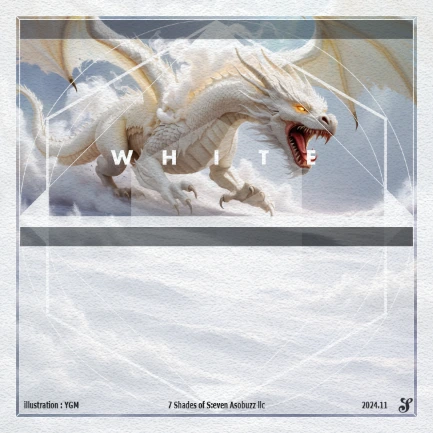
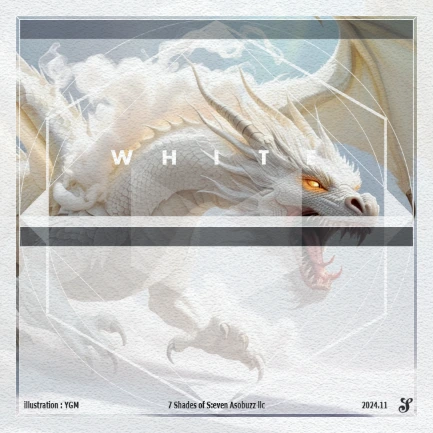
ノクスアエルを本物に寄せた4件（続き773）
- 円盤を切り抜きの png から SVG へ戻した（ご判断「以前のSVGの八角形をとりあえず
  採用しよう!」）。続き767 で消していたものを git から戻した。切り抜きの png は
  道具の吐き先として残してある。
- 円盤をカードの絵の上に重ねるようにした（ご判断「2で」＝焼き込みではない）。
  src/shikija-dial.js を足して円盤の持ち主を1か所にまとめ、card-renderer.js と
  hand-effect-ui.js の両方がそこから引く。置き場所は絵に焼かれた色名（素材の
  5層目で測った y 34.54%〜38.00%）とぶつからない 10.5%〜33.5%。
- 我忘れの白き龍の基本効果に【色者】の2行が抜けていたのを足した（ご指摘
  「効果がアプリ版だと違うね！HPに効果が載ってるから揃えよう！」）。公式サイトの
  カードの絵と突き合わせた。元データの「行」には在ったが「文」へ移し忘れていた。
  ⚠ 最初「・捨色が白なら、〜」と書いたら3行目が折り返してクレジットに被ったので
  「白：」「黒：」に詰めた。これ以上長くしないこと。
- イラストを本物と同じ寄りに差し替えた。元絵は同じ1枚で、squarify が横長のまま
  上半分に置いていたため引きの絵だった。818x818 を左端 x=440 で切った正方形版を
  素材の _正方形版/ へ置いた（make-ex0-art が自動でそちらを使う）。

ⓘ 色者の動きの表（SHIKIJA_DIRS）は続き765・766 で既に新版の並び。今回は絵だけ。
検査 20本とも合格。SQL・Edge Function の変更は無い。

diff --git a/src/changelog.js b/src/changelog.js
@@ -128,6 +128,12 @@ export const CHANGELOG = [
       "⚠ 出すのは **ONLY の行だけ**（色名は絵に焼かれているので重ねると二重になる）。**色名は読み上げには残した**（`aria-label=\"WHITE ONLY\"`）——絵の中の字は読み上げに乗らないため。⚠ カードは 20.5rem 角で固定なので、印も rem で書けば付いてくる＝**機種ごとの上書きは置かない**（置くと絵だけそのままで字が大きくなる）。実測でも「印とカードの大きさの比」が機種で変わらないことを見ている。",
       "⚠ 直した所が1つ: ONLY の行が**1行目になる時**（色名を出さない時）に、2段のための `margin-top` が残って**印が 1.70 字高ぶん下へ落ちていた**。`:first-child` で打ち消した。",
       "実測 `scratchpad/_p772.mjs`（**24項目・NG 0・例外0・404 0**）。🔴 **置き場所は「印のある絵」と「印の無い絵」を引き算して測る**——合成後の絵から直に測ると枠の飾りやイラストを拾うため。⚠ 引き算の前に**動きを止める**（出現の動きと光の走りが残っていると絵じゅうが差になる＝最初これで段が10個出た）。⚠ しきい値は低く（白い龍の上では**白い字が白地に乗る**ので差が小さく、30 では2字落ちた）。結果: 行の間 0.85（印刷 1.00）／大きさ 0.512（印刷 0.476）／中心ずれ 0.00。",
+      "🔴 **色者の円盤を、切り抜きの png から SVG へ戻した**（ユーザー判断「以前のSVGの八角形をとりあえず採用しよう!」）。続き766 で本物の画素を測って起こした `assets/icons/shikija-dial.svg` を **git から戻した**（続き767 で「切り抜きの方が近い」と判断して消していたもの）。⚠ 判断の前に、切り抜き・以前のSVG・新しく描いた4案を**実寸（66px・33px）まで含めて並べて見てもらった**。⚠ 切り抜きの png は**消さずに置いてある**（道具 `tools/make-shikija-dial.mjs` の吐き先。本物と見比べたい時に使う）。",
+      "🔴 **色者の円盤を、カードの絵の上に重ねるようにした**（ユーザー判断「2で」＝焼き込みではなく重ねる）。焼くと ①並びを直すたびに焼き直し ②絵が別物なのに円盤だけ本物にするとちぐはぐ、になる。⇒ `src/shikija-dial.js` を足して**円盤の持ち主を1か所に**し（絵の道・円盤を持つカードの名簿・並びの覚え書き）、`card-renderer.js` が `.card-face-dial` を重ねる。置き場所は**絵に焼かれている色名の上**（素材の5層目で測った y 34.54%〜38.00% とぶつからない 10.5%〜33.5%）。⚠ % なのでカードが大きくても小さくても付いてくる。⚠ 読めなければ自分を外す（進行を止めない）。",
+      "🔴 **我忘れの白き龍（ノクスアエル）の基本効果に【色者】の2行が抜けていた**（ユーザー指摘「効果がアプリ版だと違うね！HPに効果が載ってるから揃えよう！」）。公式サイトのカードの絵（`site/assets/cards-0thbp-lg/c32.webp`）と突き合わせたところ、印字には「【色者】／□ ３マス以内のプレイヤーは２枚ドロー。／■ ３マス以内のプレイヤーは手札をすべて捨てる。」が在るのに、アプリは1行目しか持っていなかった（元データの「行」には在るのに「文」へ移し忘れ）。⇒ 足した。□＝白／■＝黒 の印は文では出せないので「白：」「黒：」と書いた（□■ は手札効果の印と紛れるため使わない）。",
+      "⚠ 🔴 **足したら効果文がクレジットに被った。** 最初「・捨色が白なら、〜」と書いたら3行目が折り返し、**文の下端が 93.8%** まで伸びて下のクレジットに重なった（カードの自動縮小は効いているが、限度いっぱいだった）。⇒ 「白：」「黒：」に詰めて1行ずつに収めた。**これ以上長くしないこと**（データの注にも書いた）。",
+      "🔴 **ノクスアエルのイラストを、かくざとうさんの新しいカードと同じ寄りに差し替えた**（ユーザー指示）。元絵は同じ1枚（横長 1472x832）で、アプリは `squarify-illust.mjs` が**横長のまま上半分に置いていた**ので引きの絵になっていた。⇒ 本物のカードで龍の目が横 74% に在るのに合わせて **818x818 を左端 x=440 で切った正方形版**を作り、素材の `_正方形版/` へ置いた。⚠ そこへ置くと `make-ex0-art.mjs` が**自動でそちらを使う**ので、次に道具を回しても寄りが戻らない（横長へ巻き戻らない）。小さい版（192px）も焼き直した。",
+      "ⓘ **色者の動きの表（`SHIKIJA_DIRS`）は既に新版の並び**（続き765・766 で直してある）。今回は絵の側をそろえただけで、動きは変わっていない。⚠ **絵と表は別物なので、どちらかを直したらもう一方も見ること**（`src/shikija-dial.js` の冒頭に書いた）。",
     ],
   },
   {

diff --git a/src/card-text-ex0.ja.js b/src/card-text-ex0.ja.js
@@ -37,7 +37,7 @@ export const CARD_TEXT_EX0_JA = {
   "ex0-purple-vivian": { flavor: "「優しさで満ち溢れた世界、私はそれを強く望むわ。」── 後援するヴィヴィアン", titleRuby: "こうえん", basic: "", subtitle: "", arrival: "相手を１人選ぶ。その相手はムーブフェイズを行う。その相手が到達したカードを自分の手札に加えるなら、代わりにそのカードをあなたの手札に加える。", hand: "上記の到達効果を得る。" },
   "ex0-white-pure-burger": { flavor: "分け合った食卓では、誰も損をしていない。", titleRuby: "", basic: "", subtitle: "", arrival: "プレイヤーのいないマスを１マス選ぶ。全員は１枚ドローし、自分の手札から１枚をそのマスの１番上に置く。", hand: "任意の１マスを選ぶ。そのマスの裏向きのカードの枚数分ドロー。" },
   "ex0-white-someones-shadow": { flavor: "「なぜこのようなことになってしまっているのだ。」── 無色の者／何か知っているような口ぶりでそっと力を貸した", titleRuby: "だれ　しろ", basic: "", subtitle: "", arrival: "これを捨てる。このマスから十字方向の計１２マスに山札から１枚ずつ裏向きで置く。それらをすべてオープンする。", hand: "これをあなたの周囲以外のマスに裏向きで置く。" },
-  "ex0-white-dragon": { flavor: "暴れている…冷静になれぬ理由ももはや覚えていないのであろう", titleRuby: "*ノクスアエル", basic: "これは他のカードの効果の対象にならない。", subtitle: "", arrival: "１枚ドロー。１マス強制移動する。", hand: "これを任意のマスに表向きで置く。" },
+  "ex0-white-dragon": { flavor: "暴れている…冷静になれぬ理由ももはや覚えていないのであろう", titleRuby: "*ノクスアエル", basic: "これは他のカードの効果の対象にならない。\n【色者】\n白：３マス以内のプレイヤーは２枚ドロー。\n黒：３マス以内のプレイヤーは手札をすべて捨てる。", subtitle: "", arrival: "１枚ドロー。１マス強制移動する。", hand: "これを任意のマスに表向きで置く。" },
   "ex0-black-bad-burger": { flavor: "美味いものには、必ず代金がある。", titleRuby: "", basic: "", subtitle: "", arrival: "１枚ドロー。場の中央と四隅のマスのうち、プレイヤーのいないマスを１マス選ぶ。あなたの手札をすべて、そのマスの１番上に置く。", hand: "任意の１マスのカードをすべて捨てる。１枚ドロー。" },
   "ex0-black-vood-contract": { flavor: "契約とは時に一方的なものだ", titleRuby: "ぞく　けいやく", basic: "", subtitle: "", arrival: "全員は手札が２枚以下になるように捨てる。そうしたなら、自分の手札を１枚ロックしてもよい、ただし最後のロックはできない。", hand: "上記の到達効果を得る。" },
   "ex0-red-crimson-fist": { flavor: "赤は語らない。ただ、届く。", titleRuby: "くれない　てっけん", basic: "", subtitle: "", arrival: "以下の効果のうち１つ得る。\n・【追色１】２枚ドロー。\n・あなたの周囲の相手を１人選ぶ。その相手に接触する。", hand: "【追色S】あなたの周囲の相手を１人選ぶ。その相手に接触する。\n（接触で奪えるカードはＳの２倍の枚数である）" },

diff --git a/src/shikija-dial.js b/src/shikija-dial.js
@@ -1,0 +1,28 @@
+// 色者の円盤（移動先表示）の**唯一の持ち主**。
+//
+// ■ これは何か
+//   【色者】のカードは、各プレイヤーのターン終了時に山札から1枚捨て、その色（捨色）の
+//   向きへ1マス動く。その「どの色がどの向きか」を示すのが、カードの絵に描かれた円盤。
+//
+// ■ 🔴 絵は SVG（2026-11-20・ユーザー判断「以前のSVGの八角形をとりあえず採用しよう!」）
+//   続き766 で本物のカードの画素を測って起こしたもの。続き767 で「切り抜きの方が近い」と
+//   判断して一度消したが、並べて見てもらって**こちらを採る**ことになった（git から戻した）。
+//   ⚠ SVG なのでどの大きさでもにじまず、画像のように「幅×高さ×4バイト」のメモリを食わない（#223）。
+//   ⚠ 線が**白**なので、**置く側で暗い地を敷くこと**（明るい地に素で置くと線が消える）。
+//     カードの絵の上に置く時は、絵そのものが地になる。
+//
+// ■ 並びは**リメイク版（新版）**（続き765・766 のユーザー裁定と実測）
+//   上=緑 ／ 右上=青 ／ 右=桃 ／ 右下=紫 ／ 左下=赤 ／ 左=橙 ／ 左上=黄。
+//   真下は切り欠き（無色は動かない）。虹はそのターンのプレイヤーが周囲8マスから選ぶ。
+//   ⚠ 動きの表そのものは `src/main.js` の `SHIKIJA_DIRS`。**絵と表は別物なので、
+//     どちらかを直したらもう一方も見ること**（続き765 で表だけ直して絵が残った）。
+//   ⚠ 旧0th拡張の印刷カードの円盤は**左右が逆**。アプリは新版に合わせてある。
+
+export const SHIKIJA_DIAL_SRC = "assets/icons/shikija-dial.svg";
+
+// 円盤が描かれているカード（＝【色者】を持つカード）。増えたらここに足す。
+export const CARDS_WITH_SHIKIJA_DIAL = new Set(["ex0-white-dragon"]);
+
+export function hasShikijaDial(cardId) {
+  return CARDS_WITH_SHIKIJA_DIAL.has(cardId);
+}

diff --git a/src/card-renderer.js b/src/card-renderer.js
@@ -17,6 +17,8 @@ import { getCardText, getCardName } from "./card-text.js";
 import { getLang } from "./i18n.js";
 import { LAYOUT, cardTypeOf, groupOf, shapeHalfWidthAt } from "./card-layout-config.js";
 import { splitUnderlineRuns } from "./card-text-markup.js";
+// 【続き773】色者の円盤を絵の上に重ねる（絵に焼かずに重ねる＝ユーザー判断）。
+import { SHIKIJA_DIAL_SRC, hasShikijaDial } from "./shikija-dial.js";
 
 // 能力名《》・マーカー等の色味には単色を使う（color-mix/border-color はグラデーション不可）。
 const SOLID_ACCENT = {
@@ -318,6 +320,22 @@ export function buildCardFace(cardId, { showFlavor = true } = {}) {
 
   face.style.setProperty("--card-accent", accentFor(color));
   face.style.backgroundImage = `url("${getCardBlankPath(cardId)}")`;
+
+  // 🔴【続き773】色者の円盤。**絵に焼かずに重ねる**（ユーザー判断「2で」）。
+  //   焼くと ①10色ぶん焼き直しが要る ②並びを直すたびに焼き直し ③絵が別物なのに
+  //   円盤だけ本物にするとちぐはぐ、になる。重ねれば並びを直しても絵は触らなくてよい。
+  // ⚠ 置き場所は、絵に焼かれている色名（実測 y 34.54%〜）の**上**。ぶつからない所に置く。
+  // ⚠ 読み上げには出さない（意味は効果文と補足の方に書いてある）。
+  // ⚠ 読めなければ自分を外す（進行を止めない＝続き767 と同じ作法）。
+  if (hasShikijaDial(cardId)) {
+    const dial = document.createElement("img");
+    dial.className = "card-face-dial";
+    dial.src = SHIKIJA_DIAL_SRC;
+    dial.alt = "";
+    dial.setAttribute("aria-hidden", "true");
+    dial.addEventListener("error", () => dial.remove());
+    face.appendChild(dial);
+  }
 
   // 個別に絶対配置する要素（config にスロットがある時だけ描画）。
   if ("flavor" in slots && showFlavor && text.flavor) {

diff --git a/src/style.css b/src/style.css
@@ -21265,6 +21265,19 @@ body.reduce-glow .rank-showcase-gem.is-dimming {
 /* 能力名《》はタイトルと同じフォント。 */
 .card-face-subtitle { font-family: "Shippori Mincho B1", "FOT-マティス ProN M", "FOT-Matisse ProN M", "Yu Mincho", serif; font-weight: 800; text-align: center; color: color-mix(in srgb, var(--card-accent, #555) 55%, #201a16); }
 /* フレーバーは斜体にしない（ユーザー指摘）。フォント＝FOT-マティス。 */
+/* 🔴【2026-11-20・続き773】色者の円盤（移動先表示）。**絵に焼かずに重ねる**。
+   位置は絵に焼かれている色名（実測 y 34.54%〜38.00%・素材の5層目で測った）の**上**。
+   ⇒ 上の飾り帯（〜13%）と色名の間（13%〜33%）に収める。
+   ⚠ % はカードの面に対する割合なので、カードが大きくなっても小さくなっても付いてくる。
+   ⚠ 文字の上には来ない（文は 44% より下）。押せない（pointer-events: none）。 */
+.card-face-dial {
+  position: absolute;
+  left: 50%;
+  top: 22%;
+  width: 23%;
+  transform: translate(-50%, -50%);
+  pointer-events: none;
+}
 .card-face-flavor { font-family: "Shippori Mincho B1", "FOT-マティス ProN M", "FOT-Matisse ProN M", "Yu Mincho", serif; font-weight: 600; font-style: normal; text-align: center; color: #fff; line-height: 1.25; text-shadow: 0 0.4cqw 1cqw rgba(0, 0, 0, 0.85), 0 0 0.4cqw rgba(0, 0, 0, 0.6); }
 /* ファーストは文字が全て白（ユーザー指定）。効果は全て中央揃え・ただしアイコン(マーカー)は左揃え。 */
 .card-face[data-card-type^="first"] .card-face-title,

diff --git a/src/hand-effect-ui.js b/src/hand-effect-ui.js
@@ -160,10 +160,14 @@ export const REASON_MODAL_TOTAL_MS = REASON_MODAL_DURATION_MS + 300;
 // ⚠ **呼び出し側から渡す形にしない。cardId から引く。**
 //   オンラインの中継（broadcastEffectReason）は {cardId, text} しか運ばないので、
 //   引数で渡すと**自分の画面にしか出ない**。cardId から引けば相手の画面でも同じ絵が出る。
-// ⚠ 絵は assets/icons/shikija-dial.png（**本物のカードの絵から切り抜いたもの**。
-//   作り直すには node tools/make-shikija-dial.mjs --write）。
+// ⚠ 絵は **assets/icons/shikija-dial.svg**（続き766 で本物を測って起こしたもの。
+//   2026-11-20 のユーザー判断「以前のSVGの八角形をとりあえず採用しよう!」で、
+//   切り抜きの png からこちらへ戻した）。SVG なのでどの大きさでもにじまず、
+//   画像のようにメモリを食わない（#223）。
+// ⚠ 切り抜きの `shikija-dial.png` は**消さずに置いてある**（作り直す道具
+//   `tools/make-shikija-dial.mjs` が吐く先。本物と見比べたい時に使う）。
 const REASON_MODAL_IMAGES = {
-  "ex0-white-dragon": { src: "assets/icons/shikija-dial.png", cls: "effect-reason-modal-dial" },
+  "ex0-white-dragon": { src: "assets/icons/shikija-dial.svg", cls: "effect-reason-modal-dial" },
 };
 
 // ユーザー要望「カウンターロックの到達効果について『あなたは１番少なくロックしている

diff --git a/src/app-version.js b/src/app-version.js
@@ -1,3 +1,3 @@
 // 自動生成（.git/hooks/pre-commit）。デプロイのたびに更新される「今実行しているコード」の
 // バージョン。version.json と必ず同じ値になる。update-checker.js が使う基準値。
-export const APP_VERSION = "20261120-215201";
+export const APP_VERSION = "20261120-231001";

diff --git a/CLAUDE.md b/CLAUDE.md
@@ -1793,3 +1793,88 @@ style.css は**1バイトも違わず**元に戻った。
 - 🔴 **にじいろの呪いの「手札に加えない」を落としてよいか、返事待ち**（続き770 のコメント）。
 - 🔴 **旧0thの効果データはまだ0件**。計画は [docs/0th-effects-plan.md](docs/0th-effects-plan.md)。
 - ⚠ **実機では見ていない**（ヘッドレスの実測と撮った絵まで）。
+
+### 2026-11-20（続き773）：ノクスアエルを本物に寄せた4件（円盤はSVGへ戻す／絵に重ねる／イラストを寄せる／抜けていた効果）
+
+ユーザー指示4件。「**2で**（円盤は焼かずに重ねる）」「**アプリ版は全部新版の並びで色者は動くようにしよう**」
+「**ノクスアエルのイラストを…拡大したドラゴンのイラストに差し替えよう**」
+「**効果がアプリ版だと違うね！HPに効果が載ってるから揃えよう！**」
+＋ 絵の選び直し「**以前のSVGの八角形をとりあえず採用しよう!**」。
+
+#### ① 円盤は **SVG に戻した**
+
+ユーザーの「切り抜きだとなんかうまくできてない」を受けて、**切り抜き／以前のSVG／新しく描いた4案**を
+**実寸（66px・33px）まで含めて並べて**見てもらい、**以前のSVG**（続き766・八角）に決まった。
+🔴 そのSVGは**続き767 で私が消していた**（「切り抜きの方が近い」と判断して）。git から戻した。
+⚠ 切り抜きの png は**消さずに置いてある**（道具の吐き先。本物と見比べる時に使う）。
+
+**教訓: 「こちらの方が良い」と判断して消した物は、判断ごと記録して残す。**
+続き767 の私は理由を書いて消したが、**ユーザーはその絵を覚えていた**。消さずに置いてあれば
+「見せて」で済んだ（今回は git から戻せたが、戻せない物もある）。
+
+#### ② 円盤は**焼かずに重ねる**（`src/shikija-dial.js` 新）
+
+| | |
+|---|---|
+| 焼くと | 並びを直すたびに焼き直し。絵が別物なのに円盤だけ本物だとちぐはぐ |
+| 重ねると | 並びを直しても絵は触らなくてよい。**1枚の SVG で足りる** |
+
+⇒ **円盤の持ち主を1か所に**した（絵の道・円盤を持つカードの名簿・並びの覚え書き）。
+`card-renderer.js` が `.card-face-dial` を重ね、`hand-effect-ui.js`（お知らせ）も同じ所から引く。
+🔴 **置き場所は目分量ではない。** 絵に焼かれている色名（素材の5層目で測った **y 34.54%〜38.00%**）と
+ぶつからない **10.5%〜33.5%** に置いた。% なのでカードが大きくても小さくても付いてくる。
+
+#### 🔴🔴 ③ 基本効果に【色者】の2行が**抜けていた**
+
+公式サイトのカードの絵（`site/assets/cards-0thbp-lg/c32.webp`）と突き合わせた:
+
+| | 印字（＝公式サイト） | アプリ（直す前） |
+|---|---|---|
+| 基本 | このカードは、他のカードの効果の対象にならない。 | 同じ |
+| 〃 | **【色者】／□ ３マス以内のプレイヤーは２枚ドロー。／■ ３マス以内のプレイヤーは手札をすべて捨てる。** | 🔴 **丸ごと無い** |
+
+⚠ **元データの「行」には在った**（`tools/ex0-text-source.json` の `行`）のに、
+画面に出る `文` へ移し忘れていた。**データが正しくても、画面に出る方へ移っていなければ無いのと同じ。**
+⇒ 足した。□＝白／■＝黒 の印は文では出せないので「**白：**」「**黒：**」と書いた
+（□■ は手札効果の印と紛れるので使わない）。
+
+🔴 **足したら効果文がクレジットに被った。** 最初「・捨色が白なら、〜」と書いたら3行目が折り返し、
+**文の下端が 93.8%** まで伸びて下のクレジットに重なった。
+⚠ カードには自動縮小（`computeFit`）が在るが、**限度いっぱいで止まる**ので「縮むから大丈夫」ではない。
+⇒ 「白：」「黒：」に詰めて1行ずつに収めた。**これ以上長くしないこと**（データの注にも書いた）。
+
+#### ④ イラストを本物と同じ寄りに
+
+元絵は**同じ1枚**（`Leonardo_Phoenix_..._white_drago_0.jpg`・横長 1472x832）だった。
+アプリは `squarify-illust.mjs` が**横長のまま上半分に置く**ので引きの絵になっていた。
+⇒ 本物のカードで**龍の目が横 74%** に在るのに合わせて、**818x818 を左端 x=440 で切った正方形版**を作った。
+🔴 置き場所は素材の **`_正方形版/`**（2026-11-04 からの仕掛け。`make-ex0-art.mjs` が**自動でそちらを使う**）。
+⇒ **次に道具を回しても寄りが戻らない。** scratchpad に置いて直接焼くと、次の実行で横長へ巻き戻る。
+⚠ 小さい版（192px）は**自分では焼き直らない**（元より新しいかで見ているが、消さないと拾わなかった）
+⇒ 1枚消して `make-thumbs.mjs` を回した。
+
+#### ⑤ 「全部新版の並びで動くように」は**既に済んでいた**
+
+`SHIKIJA_DIRS`（src/main.js）は続き765・766 で新版の並びに直してある（緑=上／青=右上／桃=右／
+紫=右下／赤=左下／橙=左／黄=左上、白黒は動かない、虹は選ぶ）。今回は**絵の側をそろえただけ**。
+⚠ **絵と表は別物**なので、どちらかを直したらもう一方も見ること（`src/shikija-dial.js` の冒頭に書いた）。
+
+#### 実測
+
+`scratchpad/_p767.mjs`（お知らせの円盤・**NG 0**）＝ png から SVG へ替えても全部通る。
+`scratchpad/_p773見る.mjs` で、円盤が**出る／よその札には出ない**・置き場所の割合・
+効果文の下端を測った。🔴 **並べて撮った**（`scratchpad/_shot773/くらべ.png`）——本物と2枚並び。
+
+**検査**: `npm run check` 20本とも合格。**SQL・Edge Function の変更は無い＝再デプロイ不要。**
+ⓘ お知らせは **devItems だけ**（旧0th拡張の札は管理者でなくても出るが、変わったのは
+**1枚の見た目と、抜けていた効果文**なので、プレイヤー向けには続けて書かない判断）。
+
+#### ⚠ 申し送り
+
+- 🔴 **正方形版を1枚だけ J: に置いた**（`0th EDITION 拡張/_正方形版/【s1】白　我忘れの白き龍.png`）。
+  **リポジトリには入らない**（実物の絵は git 管理外）ので、別の端末で `make-ex0-art.mjs` を回すと
+  **横長に戻る**。他の札の正方形版と同じ扱い。
+- ⚠ 円盤は**カードの面（DOM）にだけ**出る。`paintCardFace`（canvas・小さく出す所）には出ない。
+  小さい所では読めないので今はそれでよいが、**大きく canvas で出す所ができたら足すこと**。
+- 🔴 **にじいろの呪いの「手札に加えない」を落としてよいか、返事待ち**（続き770 のコメント）。
+- ⚠ **実機では見ていない**。
